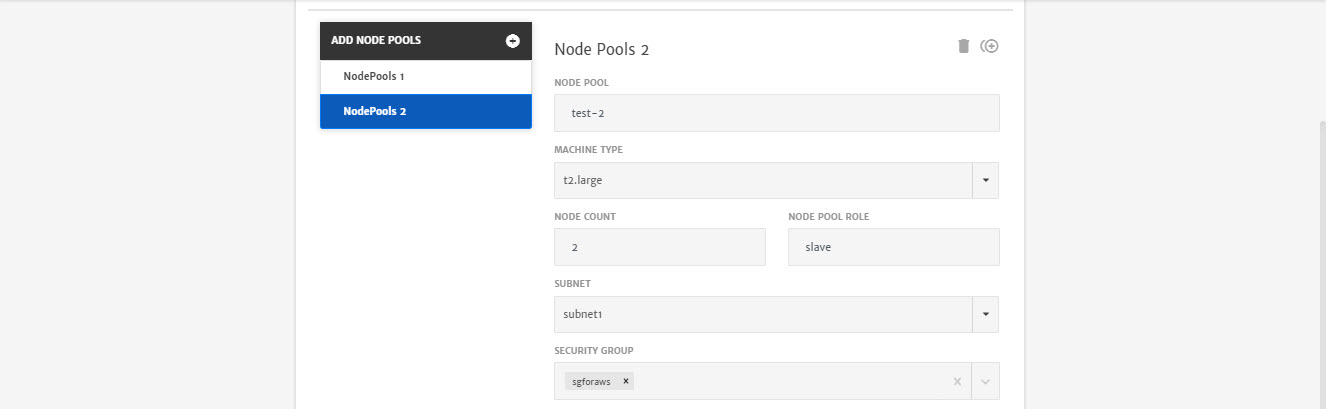
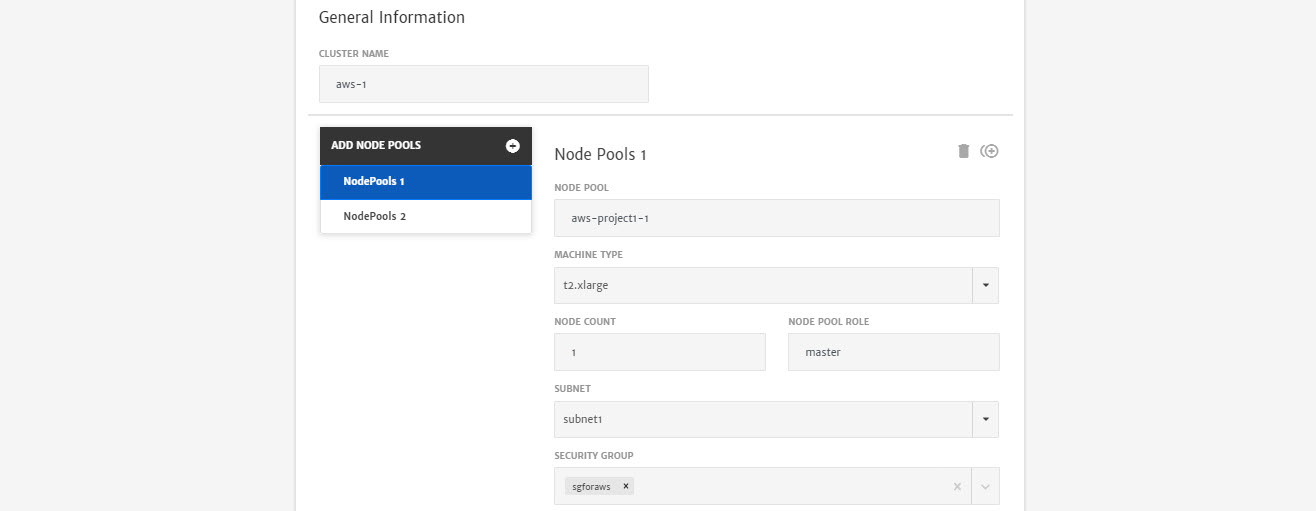
updates

diff --git a/pages/user-guide/labs/labs.md b/pages/user-guide/labs/labs.md
@@ -18,7 +18,9 @@ Purpose of these labs is to take user through the end to end process of deployme
 
    - Select the **Cloud Provider** and specify necessary account details for the account. (For this guide we have selected AWS)
 
-   - Select **Region** as per requirements.
+   - Select **Asia Pacific (Singapore)** as **Region**.
+
+     > **Note:** Region is selected as per AMI which will be selected while configuring the cluster.
 
    - Enter the AWS credentials manually. You can also save this profile for future use. Credentials will be stored in vault i.e. Credentials Profile menu.
 
@@ -46,17 +48,25 @@ Purpose of these labs is to take user through the end to end process of deployme
 
    - Select **Subnet** and **Security Groups** from drop-down.
 
+     > **Note**: You can use any subnet listed in drop-down
+
      ![6](imgs/6.jpg)
 
    - Select **New** from **Key Type** dropdown, enter **Key Name** and click **Generate**. A side menu will open, click **Save** and new SSH key will be generated. 
 
      ![7](imgs/7.jpg)
 
-   - Rest of the fields will be prepopulated. 
+   - Now, select 2nd node pool and select the **Subnet** and **Security Group** from drop-down.
+
+     ![7.1](imgs\7.1.jpg)
+
+   - Select **Existing** from **Key Type** drop-down and then select the key (which you generated while configuring the 1st node pool) from **Existing SSH Key** drop-down.
+
+     ![7.2](imgs\7.2.jpg)
 
 7. Click **Next** at the top right of screen.
 
-8. Click **Templates** button to get the list of existing/prebuilt app templates.
+8. Enter **App Name** and click **Templates** button to get the list of existing/prebuilt app templates.
 
    > Select **bookinfoapp** template
 
@@ -102,7 +112,9 @@ Purpose of these labs is to take user through the end to end process of deployme
 
    - Select the **Cloud Provider** and specify necessary account details for the account. (For this guide we have selected AWS)
 
-   - Select **Region** as per requirements.
+   - Select **Asia Pacific (Singapore)** as **Region**.
+
+     > **Note:** Region is selected as per AMI which will be selected while configuring the cluster.
 
    - Enter the AWS credentials manually. You can also save this profile for future use. Credentials will be stored in vault i.e. Credentials Profile menu.
 
@@ -130,17 +142,25 @@ Purpose of these labs is to take user through the end to end process of deployme
 
    - Select **Subnet** and **Security Groups** from drop-down.
 
+     > **Note**: You can use any subnet listed in drop-down
+
      ![6](imgs/6.jpg)
 
    - Select **New** from **Key Type** dropdown, enter **Key Name** and click **Generate**. A side menu will open, click **Save** and new SSH key will be generated. 
 
      ![7](imgs/7.jpg)
 
-   - Rest of the fields will be prepopulated. 
+   - Now, select 2nd node pool and select the **Subnet** and **Security Group** from drop-down.
+
+     ![7.1](imgs\7.1.jpg)
+
+   - Select **Existing** from **Key Type** drop-down and then select the key (which you generated while configuring the 1st node pool) from **Existing SSH Key** drop-down.
+
+     ![7.2](imgs\7.2.jpg)
 
 7. Click **Next** at the top right of screen.
 
-8. Click **Templates** button to get the list of existing/prebuilt app templates.
+8. Enter **App Name** and click **Templates** button to get the list of existing/prebuilt app templates.
 
    > Select **hipstershop-app-template** template
 
@@ -186,7 +206,9 @@ Purpose of these labs is to take user through the end to end process of deployme
 
    - Select the **Cloud Provider** and specify necessary account details for the account. (For this guide we have selected AWS)
 
-   - Select **Region** as per requirements.
+   - Select **Asia Pacific (Singapore)** as **Region**.
+
+     > **Note:** Region is selected as per AMI which will be selected while configuring the cluster.
 
    - Enter the AWS credentials manually. You can also save this profile for future use. Credentials will be stored in vault i.e. Credentials Profile menu.
 
@@ -214,17 +236,25 @@ Purpose of these labs is to take user through the end to end process of deployme
 
    - Select **Subnet** and **Security Groups** from drop-down.
 
+     > **Note**: You can use any subnet listed in drop-down
+
      ![6](imgs/6.jpg)
 
    - Select **New** from **Key Type** dropdown, enter **Key Name** and click **Generate**. A side menu will open, click **Save** and new SSH key will be generated. 
 
      ![7](imgs/7.jpg)
 
-   - Rest of the fields will be prepopulated. 
+   - Now, select 2nd node pool and select the **Subnet** and **Security Group** from drop-down.
+
+     ![7.1](imgs\7.1.jpg)
+
+   - Select **Existing** from **Key Type** drop-down and then select the key (which you generated while configuring the 1st node pool) from **Existing SSH Key** drop-down.
+
+     ![7.2](imgs\7.2.jpg)
 
 7. Click **Next** at the top right of screen.
 
-8. Click **Templates** button to get the list of existing/prebuilt app templates.
+8. Enter **App Name** and click **Templates** button to get the list of existing/prebuilt app templates.
 
    > Select **hipstershop-app-template** template
 
